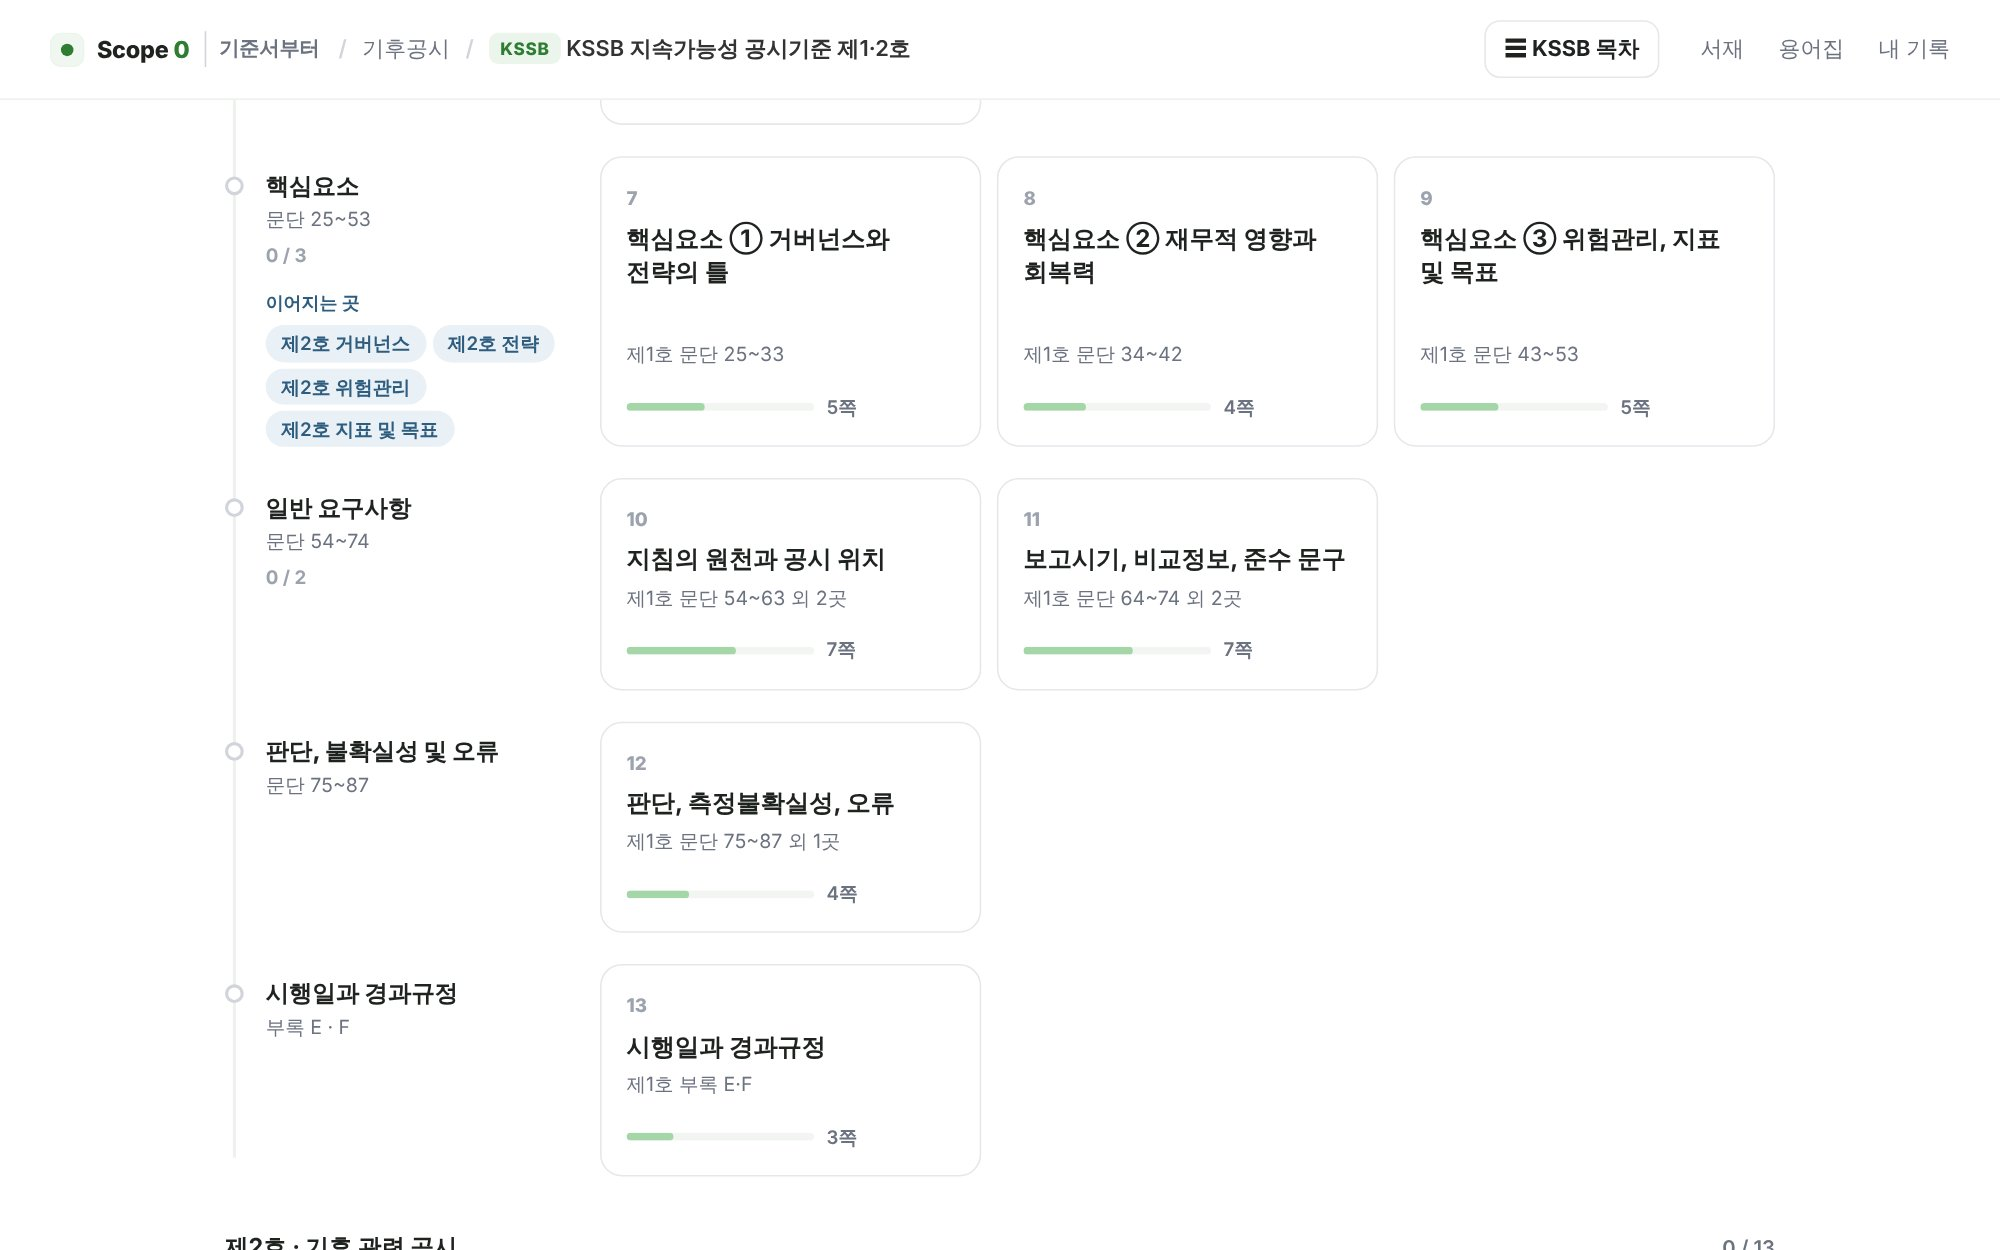
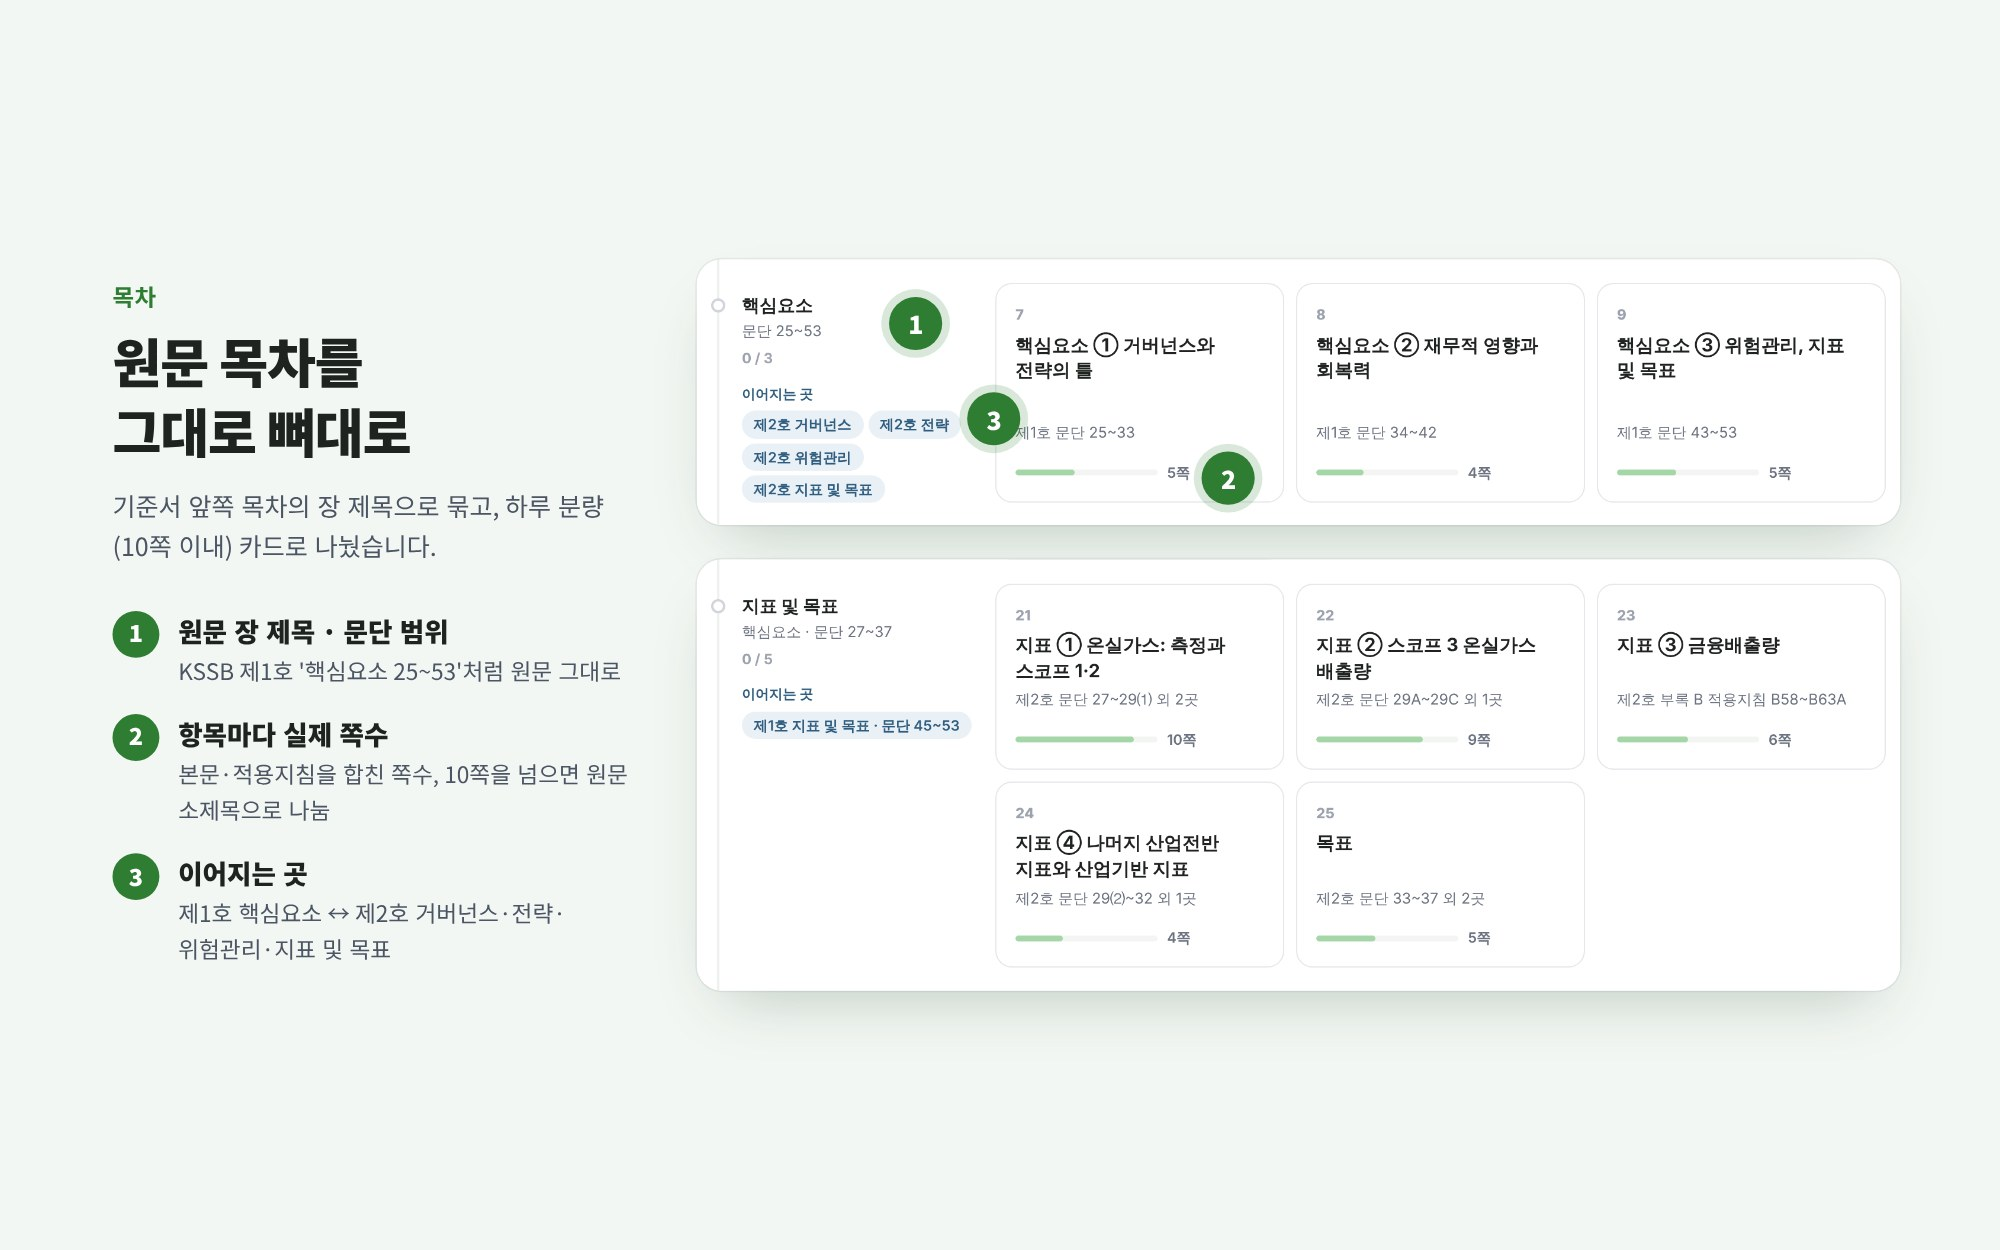
PROJECT 03 화면 교체: 한눈에·목차·지도·원문·궁금한 점·용어집 4장 (실제 화면 + 설명), 확장팩 6개
Claude-Session: https://claude.ai/code/session_016dCH9LP5LjdZvwfhivVvby

diff --git a/index.html b/index.html
@@ -412,10 +412,10 @@ main{margin-left:210px}
     <div class="fade">
       <div class="project-meta">PROJECT 03 · READING LOG · 2026 · 진행 중</div>
       <h3 class="project-title">Scope 0<br>기준서부터</h3>
-      <div class="stack-line">KSSB · IFRS S1·S2 · GHG Protocol · 배출권거래제·목표관리 고시 + pdf.js</div>
+      <div class="stack-line">KSSB · IFRS S1·S2 · GHG Protocol · 배출권거래제·목표관리 고시 · 기후 법령 + pdf.js</div>
       <p class="project-desc">Scope 1·2·3을 세기 전에, 규칙부터.<br>기후공시·온실가스 기준서를 원문 PDF로 하루 한 항목씩 읽는 공개 읽기 기록입니다.</p>
       <div class="figures">
-        <div class="fig"><div class="n">5<small>개</small></div><div class="l">서재에 꽂은<br>기준서 확장팩</div></div>
+        <div class="fig"><div class="n">6<small>개</small></div><div class="l">서재에 꽂은<br>기준서 확장팩</div></div>
         <div class="fig"><div class="n">26<small>항목</small></div><div class="l">KSSB 제1·2호를<br>하루 10쪽 이내로</div></div>
         <div class="fig"><div class="n">132<small>문단</small></div><div class="l">적용지침을 빠짐·중복<br>없이 본문에 배정</div></div>
       </div>
@@ -432,13 +432,13 @@ main{margin-left:210px}
     <div class="project-visual fade">
       <div class="browser-frame"><div class="browser-bar"><i></i><i></i><i></i><span>goalbangg-prog.github.io/Climate-Change-Professional-Maker/reading</span></div>
         <div class="screen">
-          <div class="shot active"><img src="img/scope0-shelf.jpg?v=1" alt="Scope 0 서재: 지금 읽는 기준서와 네 분야" loading="lazy"></div>
-          <div class="shot"><img src="img/scope0-toc.jpg?v=1" alt="원문 장 제목 뼈대와 항목 카드, 제2호와 이어지는 곳" loading="lazy"></div>
-          <div class="shot"><img src="img/scope0-map.jpg?v=1" alt="읽기 1단계 지도: 오늘 읽을 곳과 이어지는 곳" loading="lazy"></div>
-          <div class="shot"><img src="img/scope0-pdf.jpg?v=1" alt="읽기 2단계: KSSB 제2호 원문 PDF" loading="lazy"></div>
+          <div class="shot active"><img src="img/scope0-cover.jpg?v=2" alt="Scope 0 기준서부터: 지도→원문→궁금한 점, 확장팩 6개·용어의 정의 74개와 서재 화면" loading="lazy"></div>
+          <div class="shot"><img src="img/scope0-toc.jpg?v=2" alt="원문 목차의 장 제목을 뼈대로 한 목차, 항목별 쪽수와 제1호·제2호 이어지는 곳" loading="lazy"></div>
+          <div class="shot"><img src="img/scope0-read.jpg?v=2" alt="읽기 1단계 지도와 2단계 원문 PDF (KSSB 제2호 거버넌스)" loading="lazy"></div>
+          <div class="shot"><img src="img/scope0-qs.jpg?v=2" alt="3단계 궁금한 점 기록과 원문 정의를 그대로 실은 용어집" loading="lazy"></div>
         </div>
       </div>
-      <div class="tabs"><button class="tab active">서재</button><button class="tab">목차</button><button class="tab">지도</button><button class="tab">원문</button></div>
+      <div class="tabs"><button class="tab active">한눈에</button><button class="tab">목차</button><button class="tab">지도·원문</button><button class="tab">궁금한 점·용어집</button></div>
     </div>
   </div>
 </section>
